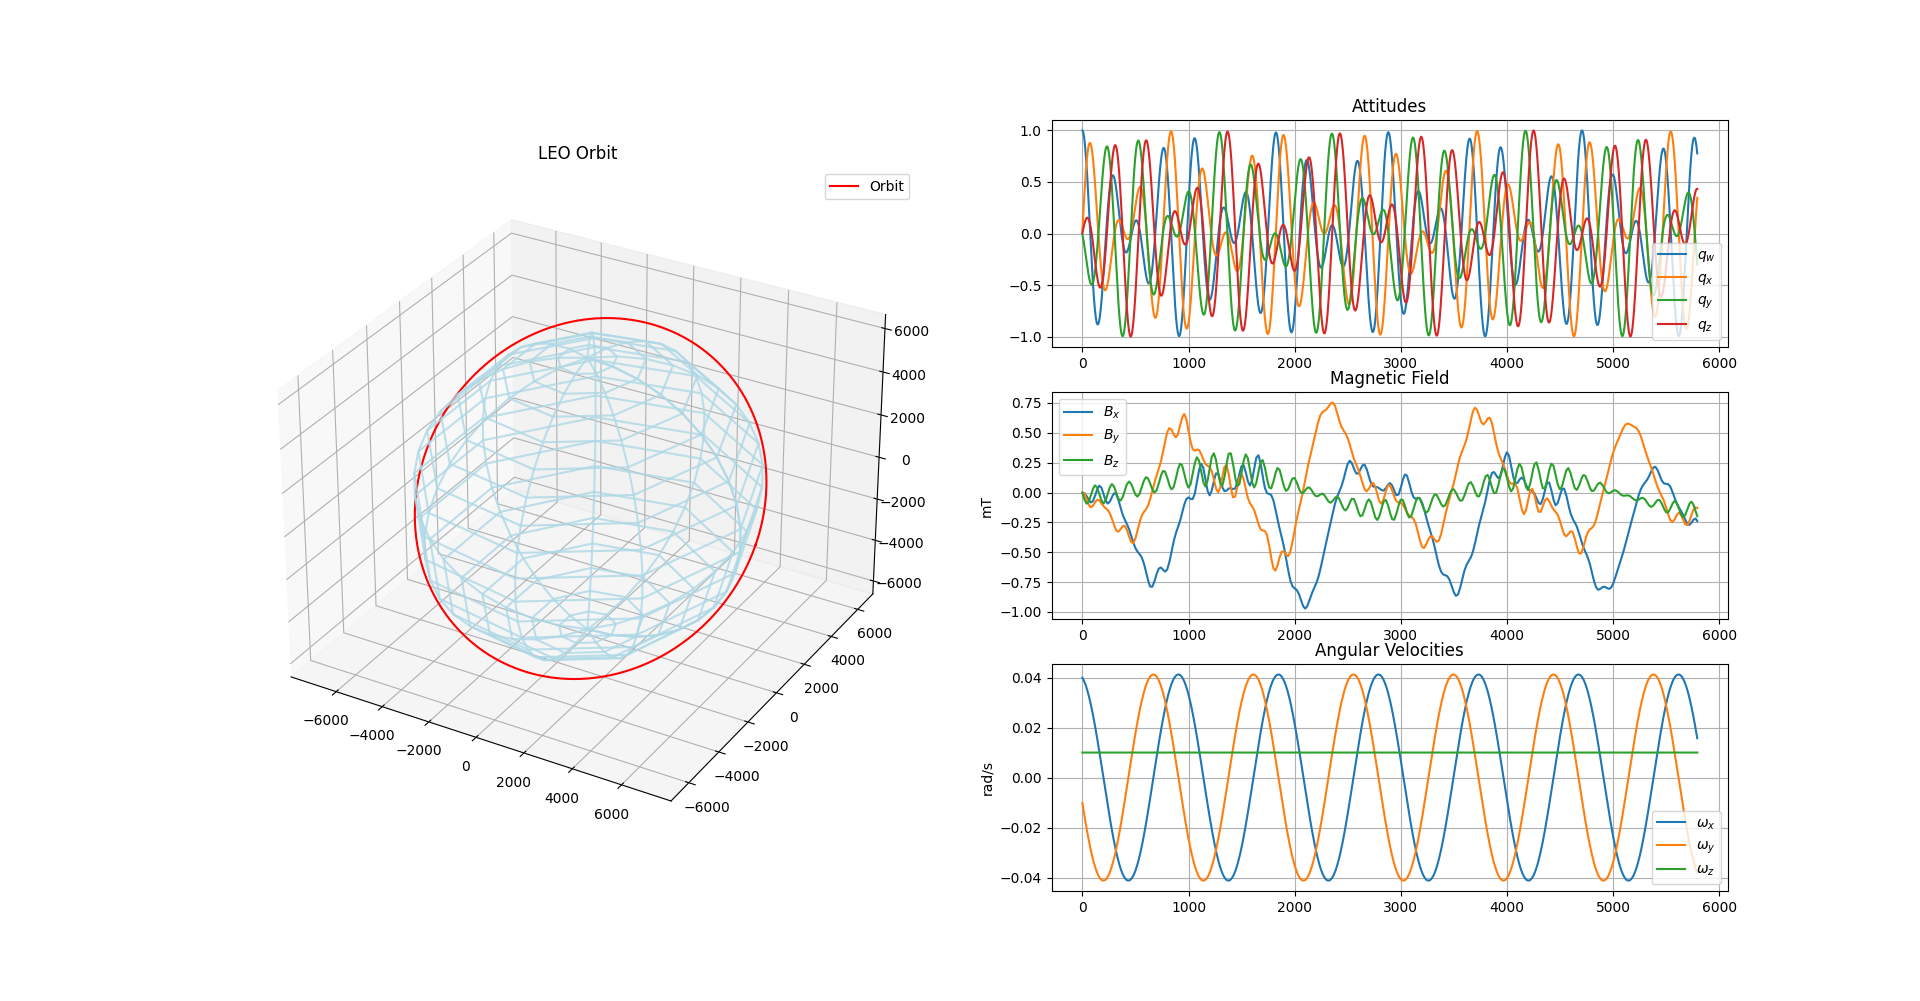
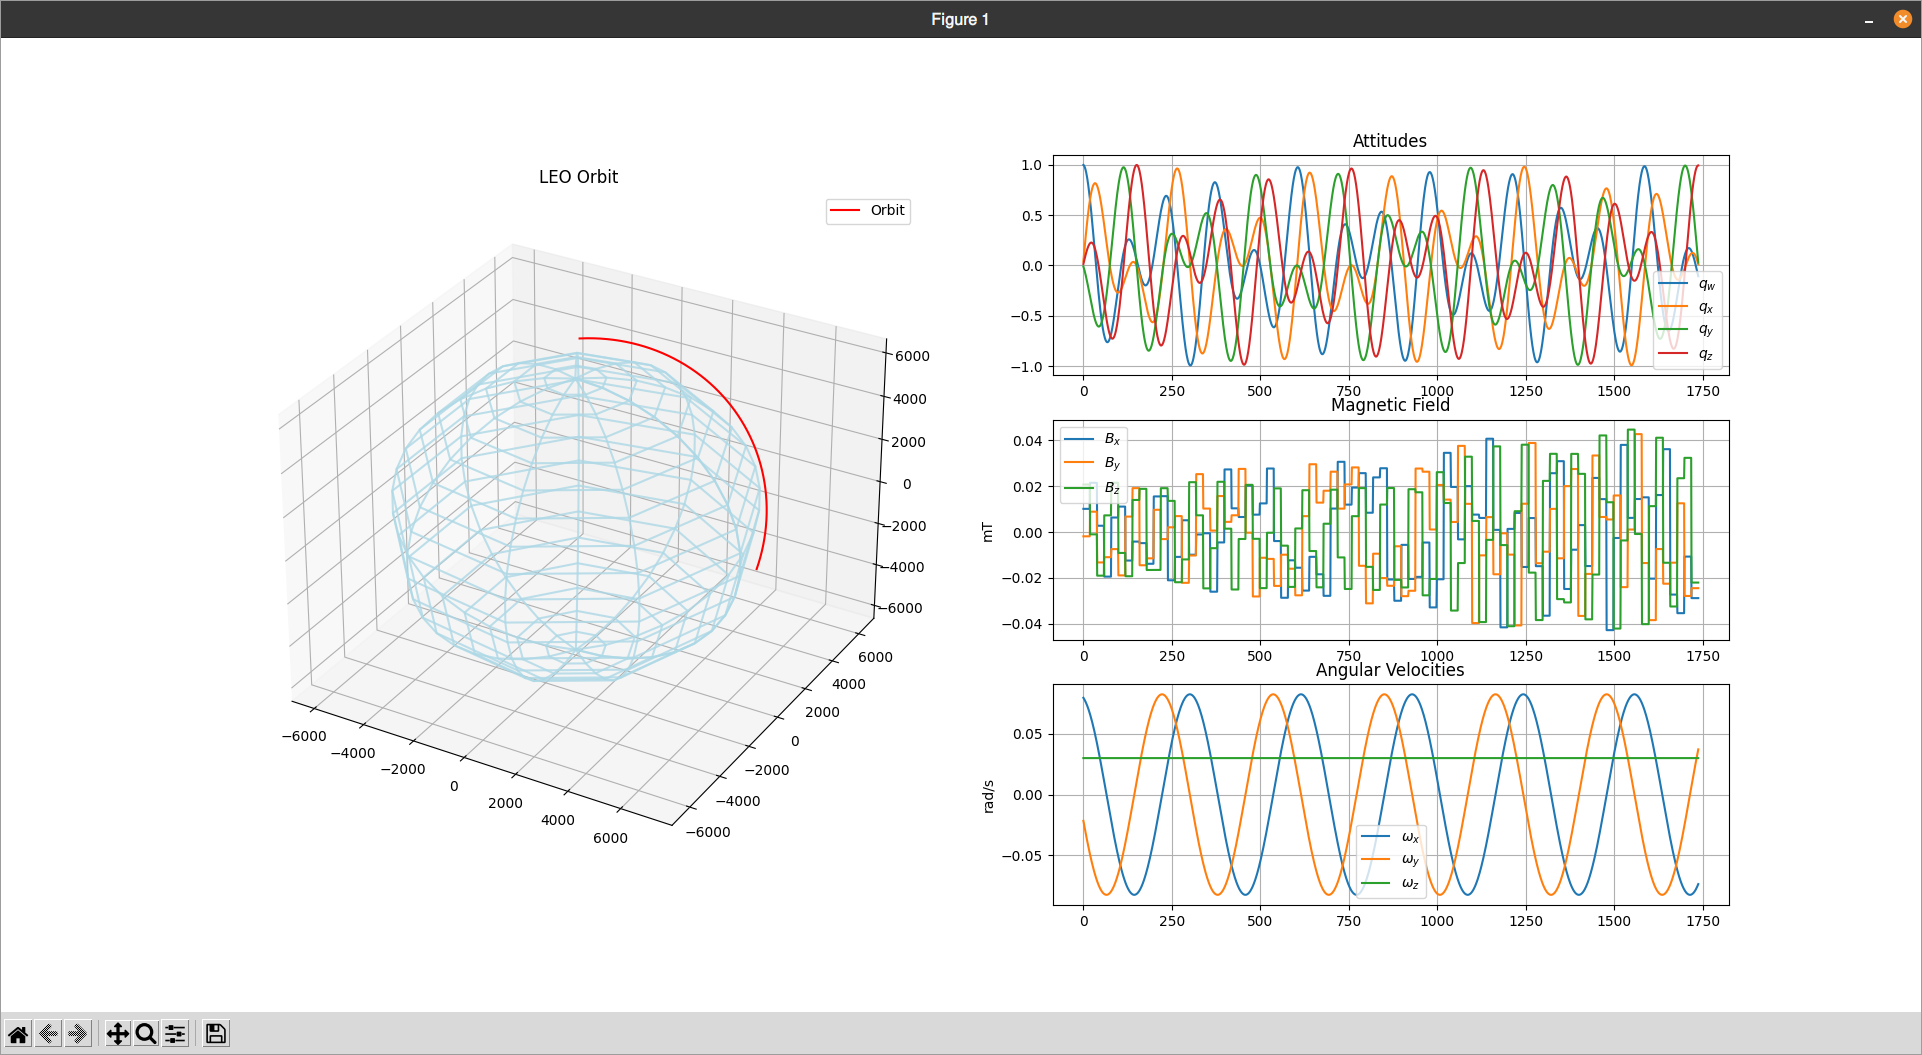
Updated screenshot with corrented mag field

diff --git a/Orbit.py b/Orbit.py
@@ -15,6 +15,6 @@ vel_z_0: float = circular_vel * np.sin(orbit_inclination)
 velocity_0 = np.array([[0, vel_y_0, vel_z_0]], dtype=float).T
 
 attitude_0 = np.array([[1, 0, 0, 0]], dtype=float).T
-omega_0 = np.array([[0.04, -0.01, 0.01]], dtype=float).T
+omega_0 = np.array([[0.08, -0.02, 0.03]], dtype=float).T
 
 BB = np.array([[0, 0, 0]], dtype=float).T
